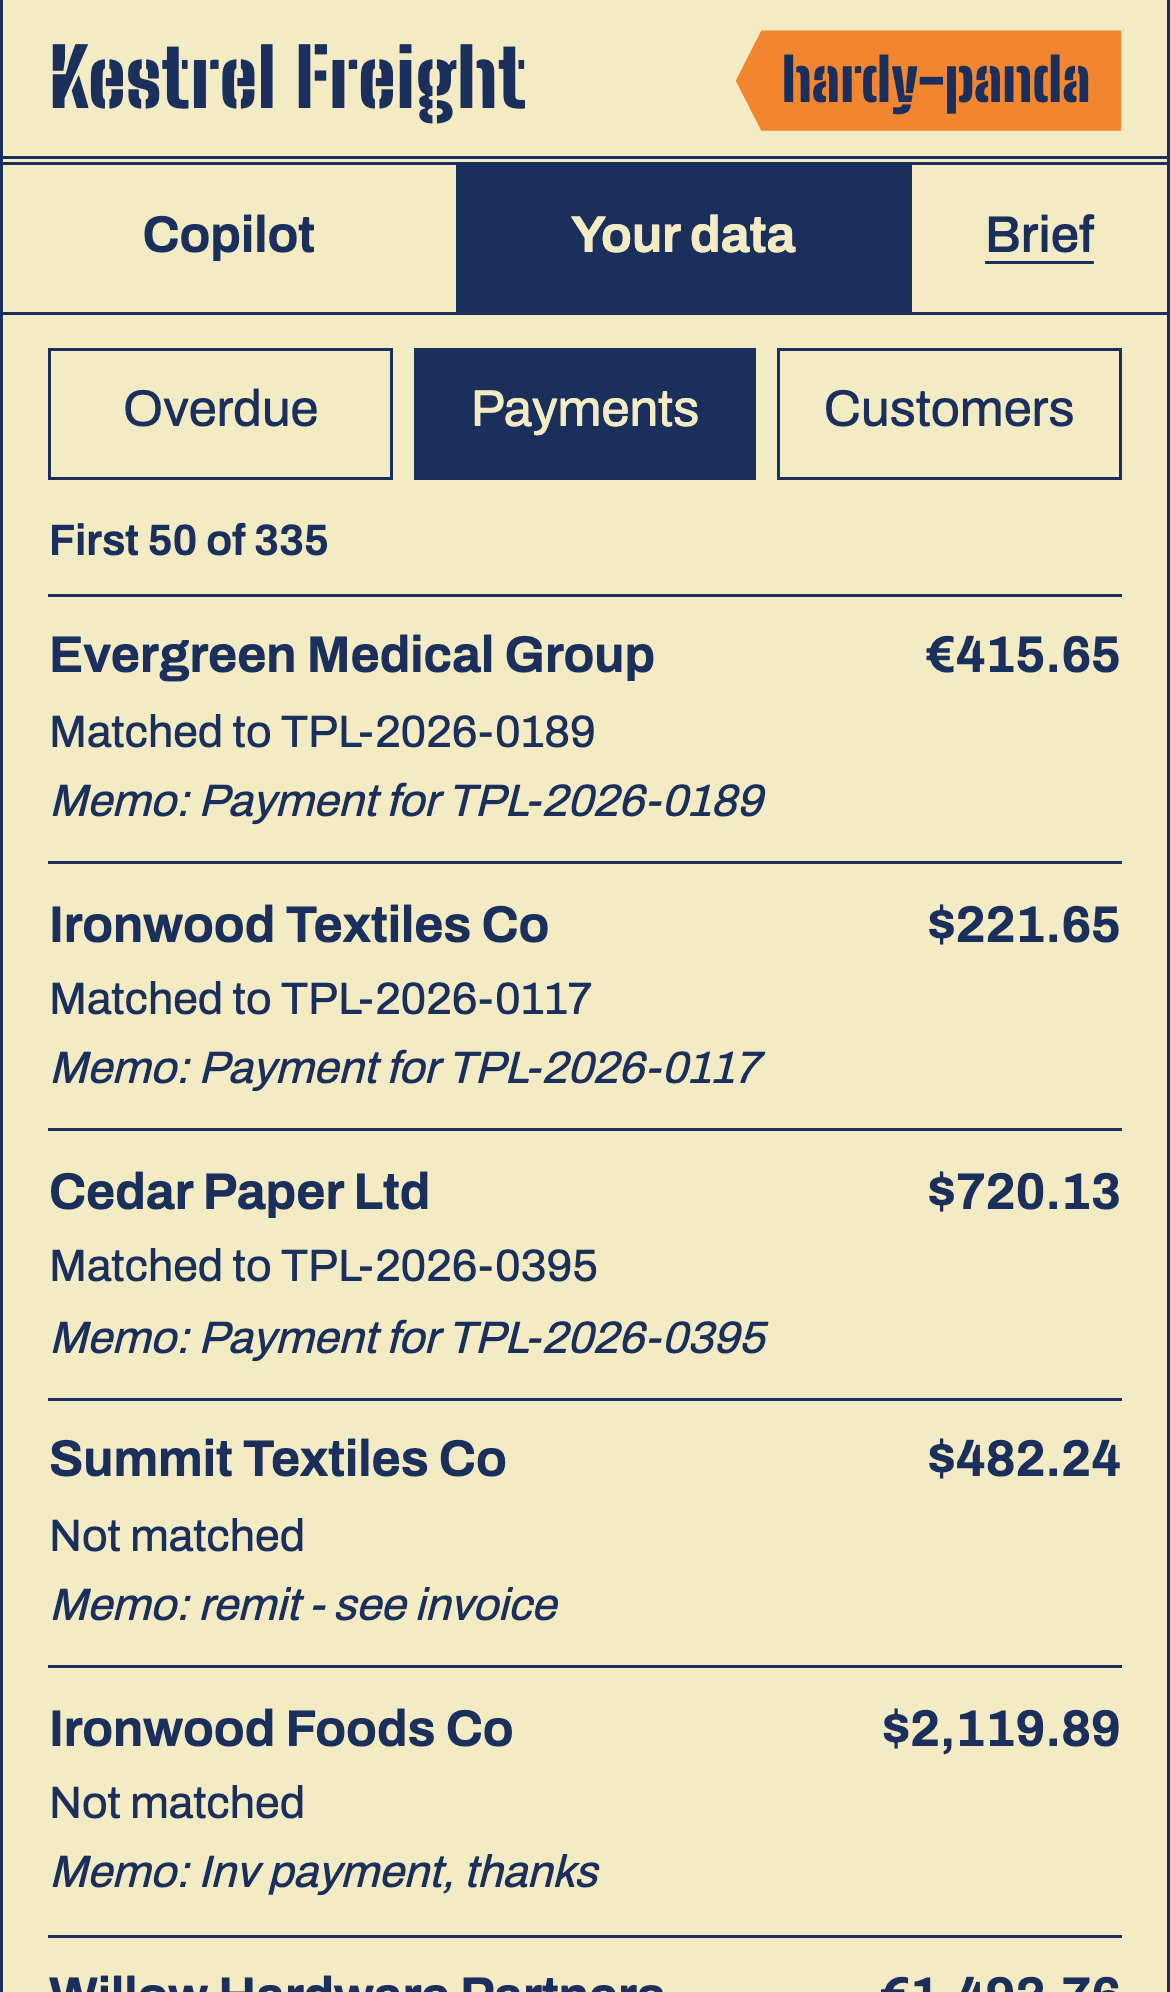
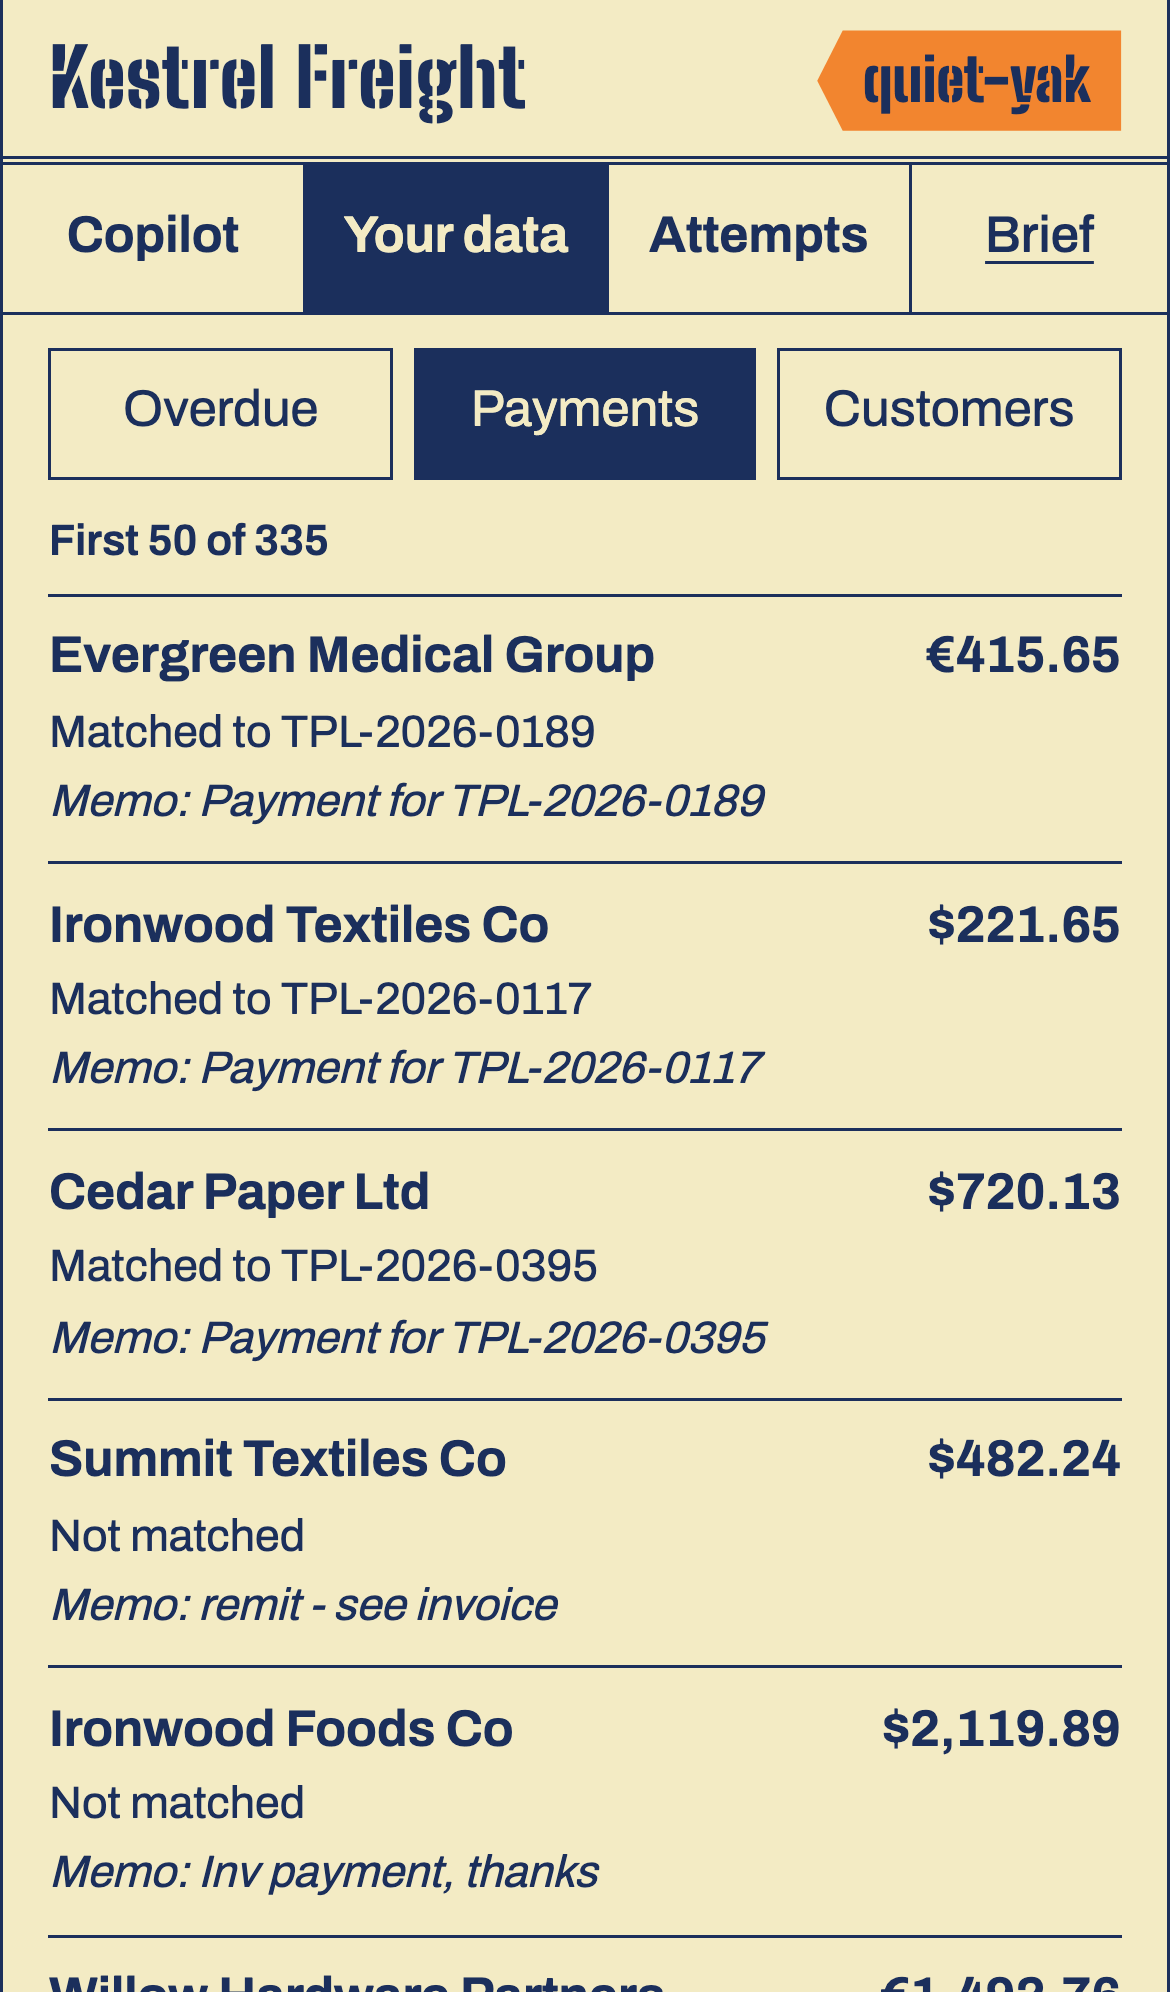
feat(arena): attempts tab with the player's own agent calls and the room totals
- Attempts tab on /play: the player's tally and calls from my_agent_activity
  (merged across grants), then players, fooled and flags captured
- public.room_totals(): human-only, counts-only read of ctf.scoreboard_totals;
  pgTAP test, and the forgery sweep pins and exercises it
- e2e: a Flag 2 attempt is refused and the invoice unchanged; the tally matches
  the audit log and the room matches the scoreboard (10 steps)
- REPORT_04: step 5 marked done with evidence

Changed region(s): [[0.0615, 0.0, 0.9231, 0.1556]]

diff --git a/apps/arena/src/pages/Attempts.tsx b/apps/arena/src/pages/Attempts.tsx
@@ -1,0 +1,70 @@
+// "Your attempts": the player's own agent activity (from the audit log), and the room's counts.
+// Refreshed whenever the tab is opened. Only the player's own calls appear here; the room is numbers only (P6).
+import { useEffect, useState } from "react";
+import { timeAgo } from "@ar/shared/data/format.ts";
+import { loadAttempts, roomTotals, type Attempts as Mine, type Room } from "../lib/attempts.ts";
+import { sb } from "../supabase.ts";
+
+const OUTCOME: Record<string, string> = { ok: "OK", denied: "Refused", error: "Error" };
+
+export function Attempts({ active }: { active: boolean }) {
+  const [mine, setMine] = useState<Mine | null>(null);
+  const [room, setRoom] = useState<Room | null>(null);
+  const [error, setError] = useState<string | null>(null);
+  const [tick, setTick] = useState(0);
+
+  useEffect(() => {
+    if (!active) return;
+    let live = true;
+    setError(null);
+    Promise.all([loadAttempts(sb), roomTotals(sb)]).then(
+      ([m, r]) => { if (live) { setMine(m); setRoom(r); } },
+      (e: Error) => live && setError(e.message));
+    return () => { live = false; };
+  }, [active, tick]);
+
+  if (error) return <p className="form-error play-msg" role="alert">Could not load your attempts: {error}</p>;
+  if (!mine || !room) return <p className="notice play-msg">Loading.</p>;
+
+  return (
+    <section className="attempts" aria-label="Your attempts">
+      <div className="attempts-head">
+        <h2>Your attempts</h2>
+        <button type="button" className="link" onClick={() => setTick((n) => n + 1)}>Refresh</button>
+      </div>
+      <dl className="tally" data-testid="my-totals">
+        <div className="cell"><dt>Tool calls</dt><dd data-k="calls">{mine.totals.calls}</dd></div>
+        <div className="cell"><dt>Refused by the database</dt><dd data-k="denied">{mine.totals.denied}</dd></div>
+        <div className="cell"><dt>Sent to a person to approve</dt><dd data-k="proposals">{mine.totals.proposals}</dd></div>
+        <div className="cell"><dt>Errors</dt><dd data-k="errors">{mine.totals.errors}</dd></div>
+      </dl>
+
+      {mine.calls.length === 0 ? (
+        <p className="body">No tool calls yet. Ask your copilot something on the Copilot tab.</p>
+      ) : (
+        <>
+          <p className="count">Only you see this list.{mine.more ? " Showing the most recent calls." : ""}</p>
+          <ol className="calls" data-testid="calls">
+            {mine.calls.map((c, i) => (
+              <li key={`${c.at}-${i}`} className={`call call-${c.outcome}`} data-tool={c.tool} data-outcome={c.outcome}>
+                <span className="call-tool">{c.tool}</span>
+                <span className="call-outcome">{OUTCOME[c.outcome] ?? c.outcome}</span>
+                <span className="call-sub">
+                  {c.reason ? `${c.reason}, ` : ""}{timeAgo(c.at)}
+                </span>
+              </li>
+            ))}
+          </ol>
+        </>
+      )}
+
+      <h2 className="room-title">The room</h2>
+      <dl className="room" data-testid="room">
+        <div><dt>Players</dt><dd data-k="players">{room.players}</dd></div>
+        <div><dt>Times a copilot was fooled</dt><dd data-k="fooled">{room.fooled}</dd></div>
+        <div className="room-flags"><dt>Flags captured</dt><dd data-k="flags_captured">{room.flags_captured}</dd></div>
+      </dl>
+      <p className="count">"Fooled" means a copilot tried something and the database refused it.</p>
+    </section>
+  );
+}

diff --git a/apps/arena/src/lib/attempts.test.ts b/apps/arena/src/lib/attempts.test.ts
@@ -1,0 +1,46 @@
+import { describe, expect, it } from "vitest";
+import type { AgentActivity, AgentCall } from "@ar/shared/data/api.ts";
+import { mergeActivity, roomTotals } from "./attempts.ts";
+
+const call = (at: string, tool: string, outcome: AgentCall["outcome"] = "ok", reason: string | null = null): AgentCall =>
+  ({ at, session_id: null, tool, args: {}, outcome, reason, rows_returned: null, after_revocation: false });
+const activity = (calls: AgentCall[], totals: Partial<AgentActivity["totals"]>, count = calls.length): AgentActivity => ({
+  grant: { id: "g", client_id: "c", client_name: "agent", active: true, granted_at: "", revoked_at: null },
+  totals: { calls: 0, denied: 0, errors: 0, after_revocation: 0, proposals: 0, ...totals },
+  count, calls, proposals: [],
+});
+
+describe("mergeActivity", () => {
+  it("is empty with no grants (the player has not connected yet)", () => {
+    expect(mergeActivity([])).toEqual({ totals: { calls: 0, denied: 0, errors: 0, after_revocation: 0, proposals: 0 }, calls: [], more: false });
+  });
+
+  it("sums totals across grants (each grant's window ends at the next, so nothing is counted twice)", () => {
+    const m = mergeActivity([
+      activity([call("2026-11-12T10:00:00Z", "a")], { calls: 3, denied: 1, proposals: 1 }),
+      activity([call("2026-11-12T11:00:00Z", "b")], { calls: 2, denied: 2, errors: 1, after_revocation: 1 }),
+    ]);
+    expect(m.totals).toEqual({ calls: 5, denied: 3, errors: 1, after_revocation: 1, proposals: 1 });
+  });
+
+  it("merges calls newest first and says when there are more than shown", () => {
+    const m = mergeActivity([
+      activity([call("2026-11-12T10:02:00Z", "x"), call("2026-11-12T10:00:00Z", "y")], {}, 60),
+      activity([call("2026-11-12T10:01:00Z", "z", "denied", "agent_not_permitted")], {}),
+    ]);
+    expect(m.calls.map((c) => c.tool)).toEqual(["x", "z", "y"]);
+    expect(m.more).toBe(true);
+  });
+});
+
+describe("roomTotals", () => {
+  const rpc = (data: unknown, error: { message: string } | null = null) => ({ rpc: async () => ({ data, error }) });
+  it("returns the counts", async () => {
+    const t = { players: 3, prompts: 0, attempts: 0, fooled: 7, flags_captured: 0 };
+    expect(await roomTotals(rpc({ ok: true, data: t }))).toEqual(t);
+  });
+  it("a denial or a request error is an error", async () => {
+    await expect(roomTotals(rpc({ ok: false, reason: "human_only" }))).rejects.toThrow("human_only");
+    await expect(roomTotals(rpc(null, { message: "down" }))).rejects.toThrow("down");
+  });
+});

diff --git a/apps/arena/src/lib/attempts.ts b/apps/arena/src/lib/attempts.ts
@@ -1,0 +1,37 @@
+// "Your attempts": what the player's agent did, from the audit log (my_agent_activity, the player's own grants
+// only), and the room's counts (room_totals: five numbers, no handles, no prompts). P6.
+import type { AgentActivity, AgentCall } from "@ar/shared/data/api.ts";
+
+type Rpc = { rpc(fn: string, args?: Record<string, unknown>): PromiseLike<{ data: unknown; error: { message: string } | null }> };
+type Envelope<T> = { ok: boolean; data?: T; reason?: string; error?: string };
+
+export type Totals = AgentActivity["totals"];
+export type Attempts = { totals: Totals; calls: AgentCall[]; more: boolean };
+export type Room = { players: number; prompts: number; attempts: number; fooled: number; flags_captured: number };
+
+const ZERO: Totals = { calls: 0, denied: 0, errors: 0, after_revocation: 0, proposals: 0 };
+
+// A player who reconnects gets a new grant. Each grant's activity window ends where the next grant starts, so
+// totals add up without double counting; calls are merged newest first.
+export function mergeActivity(activities: AgentActivity[]): Attempts {
+  const totals = { ...ZERO };
+  for (const a of activities) for (const k of Object.keys(ZERO) as (keyof Totals)[]) totals[k] += a.totals[k];
+  const calls = activities.flatMap((a) => a.calls).sort((x, y) => Date.parse(y.at) - Date.parse(x.at));
+  return { totals, calls, more: activities.some((a) => a.count > a.calls.length) };
+}
+
+async function envelope<T>(p: PromiseLike<{ data: unknown; error: { message: string } | null }>): Promise<T> {
+  const r = await p;
+  if (r.error) throw new Error(r.error.message);
+  const env = r.data as Envelope<T>;
+  if (!env?.ok) throw new Error(env?.reason ?? env?.error ?? "unavailable");
+  return env.data as T;
+}
+
+export async function loadAttempts(sb: Rpc): Promise<Attempts> {
+  const { grants } = await envelope<{ grants: { id: string }[] }>(sb.rpc("my_agent_access", {}));
+  const acts = await Promise.all(grants.map((g) => envelope<AgentActivity>(sb.rpc("my_agent_activity", { grant_id: g.id, page: 0 }))));
+  return mergeActivity(acts);
+}
+
+export const roomTotals = (sb: Rpc) => envelope<Room>(sb.rpc("room_totals"));

diff --git a/apps/arena/src/styles.css b/apps/arena/src/styles.css
@@ -269,3 +269,23 @@ a.primary { display: flex; align-items: center; justify-content: center; text-de
 .consent-actions button { flex: 1; min-height: 3.2rem; font-weight: 700; font-size: 1.05rem; }
 .secondary { border: var(--rule); background: none; color: var(--ink); }
 .consent-error { color: var(--stamp); font-weight: 600; }
+
+/* Attempts: the player's own tally, their calls as a log, then the room in stencil numerals. */
+.attempts { flex: 1; overflow-y: auto; padding: 0.6rem 0.9rem 1.2rem; }
+.attempts h2 { margin: 0; font-size: 1.15rem; font-weight: 750; font-stretch: 85%; }
+.attempts-head { display: flex; justify-content: space-between; align-items: baseline; margin-bottom: 0.5rem; }
+.tally { margin: 0 0 0.8rem; display: grid; grid-template-columns: 1fr 1fr; }
+.tally .cell { margin: 0 -1.5px -1.5px 0; }
+.tally dd { margin: 0; font-family: var(--stencil); font-weight: 800; font-size: 2rem; line-height: 1.1; }
+.calls { list-style: none; margin: 0 0 1.2rem; padding: 0; border-top: var(--rule); }
+.call { display: grid; grid-template-columns: 1fr auto; gap: 0.1rem 0.6rem; padding: 0.45rem 0; border-bottom: 1px solid var(--ink); }
+.call-tool { font-weight: 650; overflow-wrap: anywhere; }
+.call-outcome { font-weight: 800; font-size: 0.85rem; }
+.call-denied .call-outcome { background: var(--stamp); color: #fff; padding: 0.05em 0.45em; transform: rotate(-3deg); }
+.call-sub { grid-column: 1 / -1; font-size: 0.85rem; }
+.attempts .room-title { border-top: 3px double var(--ink); padding-top: 0.7rem; margin-bottom: 0.5rem; }
+.room { margin: 0 0 0.5rem; display: grid; grid-template-columns: 1fr 1fr; gap: 0.6rem 1rem; }
+.room dt { font-size: 0.85rem; font-weight: 600; font-stretch: 85%; }
+.room dd { margin: 0; font-family: var(--stencil); font-weight: 800; font-size: 2.4rem; line-height: 1; }
+.room-flags { grid-column: 1 / -1; background: var(--tag); padding: 0.6rem 0.8rem; }
+.room-flags dd { font-size: 4.2rem; }

diff --git a/apps/arena/src/pages/Play.tsx b/apps/arena/src/pages/Play.tsx
@@ -7,6 +7,7 @@ import { CopilotPanel } from "@ar/shared/agent/CopilotPanel.tsx";
 import { agent, getJwt } from "../agent.ts";
 import { holdPrompt, takePrompt } from "../lib/pending.ts";
 import { usePlayer } from "../lib/usePlayer.ts";
+import { Attempts } from "./Attempts.tsx";
 import { YourData } from "./YourData.tsx";
 
 const RETURN_ERRORS: Record<string, string> = {
@@ -52,7 +53,7 @@ function useReturn() {
 export function Play() {
   const { player, error, retry } = usePlayer();
   const back = useReturn();
-  const [tab, setTab] = useState<"copilot" | "data">("copilot");
+  const [tab, setTab] = useState<"copilot" | "data" | "attempts">("copilot");
 
   return (
     <main className="play">
@@ -63,6 +64,7 @@ export function Play() {
       <nav className="tabs" role="tablist" aria-label="Play">
         <button role="tab" aria-selected={tab === "copilot"} className={tab === "copilot" ? "on" : ""} onClick={() => setTab("copilot")}>Copilot</button>
         <button role="tab" aria-selected={tab === "data"} className={tab === "data" ? "on" : ""} onClick={() => setTab("data")}>Your data</button>
+        <button role="tab" aria-selected={tab === "attempts"} className={tab === "attempts" ? "on" : ""} onClick={() => setTab("attempts")}>Attempts</button>
         <Link to="/" className="tab-link">Brief</Link>
       </nav>
       {error ? (
@@ -81,6 +83,7 @@ export function Play() {
               title="Your copilot" placeholder="Ask your copilot anything" />
           </div>
           <div className="tab-body" hidden={tab !== "data"}><YourData /></div>
+          <div className="tab-body" hidden={tab !== "attempts"}><Attempts active={tab === "attempts"} /></div>
         </>
       )}
     </main>

diff --git a/docs/context-packs/REPORT_04.md b/docs/context-packs/REPORT_04.md
@@ -137,6 +137,28 @@ which broke `evals/run.ts`; pack 02's Deno suites were re-run green after the mo
      `evidence/A_your_data_390.png`. Not yet run against the bedrock model or a real phone.
 5. "Your attempts" from `my_agent_activity`; optionally room totals from the counts-only scoreboard views
    through a new read function.
+   **Done (2026-10-27).** A third tab on `/play`, Attempts, refreshed each time it opens. Top: the player's own
+   tally (tool calls, refused by the database, sent to a person to approve, errors) and their calls newest first
+   with the outcome and reason ("Only you see this list"). Below: the room, with players, times a copilot was
+   fooled, and flags captured on a cargo-tag panel.
+   - Data: `my_agent_access` for the player's grants, then `my_agent_activity` per grant, merged in
+     `apps/arena/src/lib/attempts.ts` (each grant's window ends where the next starts, so totals add without
+     double counting; calls merged newest first). Unit tests.
+   - New read function `public.room_totals()` (migration `20261027214917_room_totals.sql`): SECURITY DEFINER
+     like `my_agent_access`, humans only (`human_only` for an agent token), returns exactly the five counts of
+     `ctf.scoreboard_totals` and nothing else (no handles, no prompt text). pgTAP `10_room_totals.test.sql`
+     (anon cannot call it, the same numbers as the view, a new capture is counted, agent refused); the forgery
+     sweep in `07_forgery.test.sql` now pins and exercises it (180 pgTAP tests pass locally). Applied locally
+     only, not to stage.
+   - The arena shows players, fooled and flags captured. It hides prompts and attempts, which read 0 until
+     something records prompts (the Edge Function proxy, CC-9); the function already returns them, so showing
+     them later is a UI change only.
+   - Evidence: `play.e2e.mjs` now 10 steps (`evidence/A_play_e2e_local.txt`): a Flag 2 attempt
+     (`mark_invoice_paid` on the player's own invoice) is DENIED `agent_not_permitted` and the invoice stays
+     open; the Attempts tally and call list match the player's rows in `app.audit_log` (3 calls, 1 refused, 1
+     error), the refused call is stamped with its reason; the room matches `ctf.scoreboard_totals` (re-read
+     while the 5 s scorer catches up: fooled went up by one with this run's refusal). Screenshots:
+     `evidence/A_attempts_390.png`, `evidence/A_room_390.png`.
 6. Friendly copy for `paused` and `limit_reached` (already in CC-8). A pre-turn kill-switch status read would
    be a new proposal (CC-10); the switch itself is pack 03's.
 7. Tests: e2e at a phone viewport (code read from the local mail catcher, provisioning, connect, first prompt,
